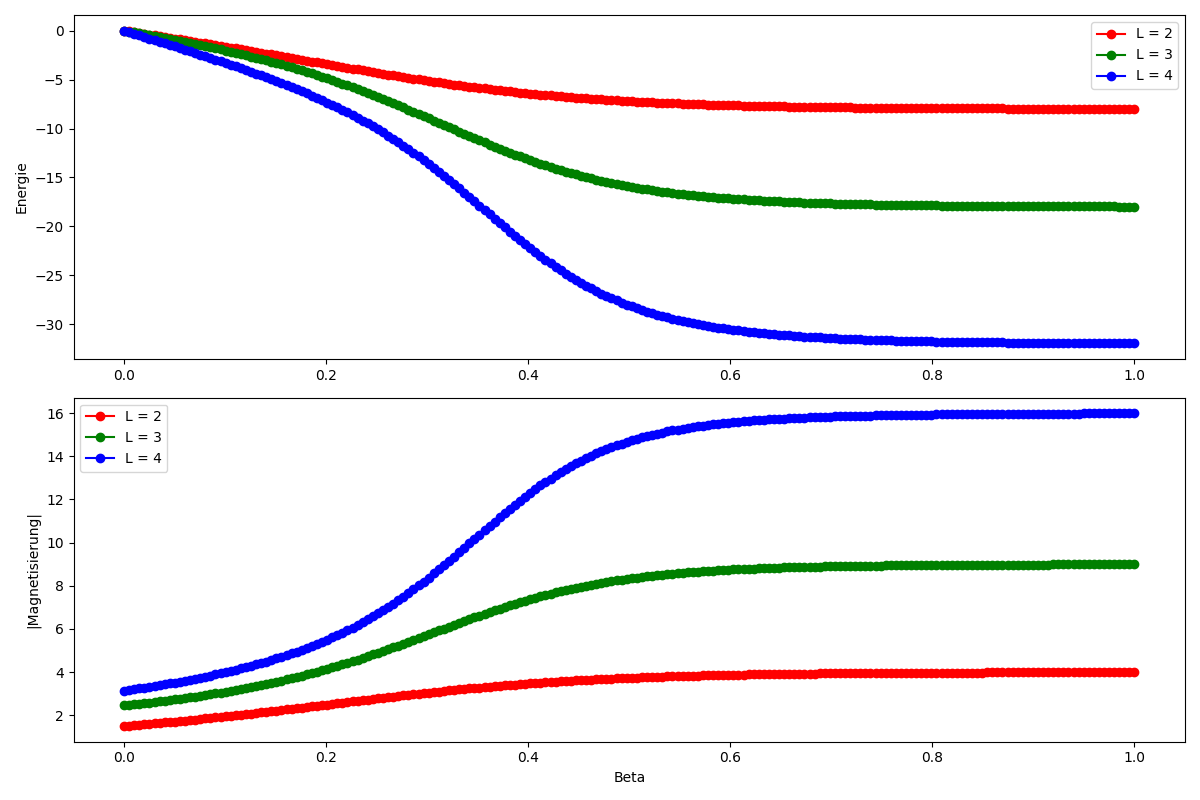
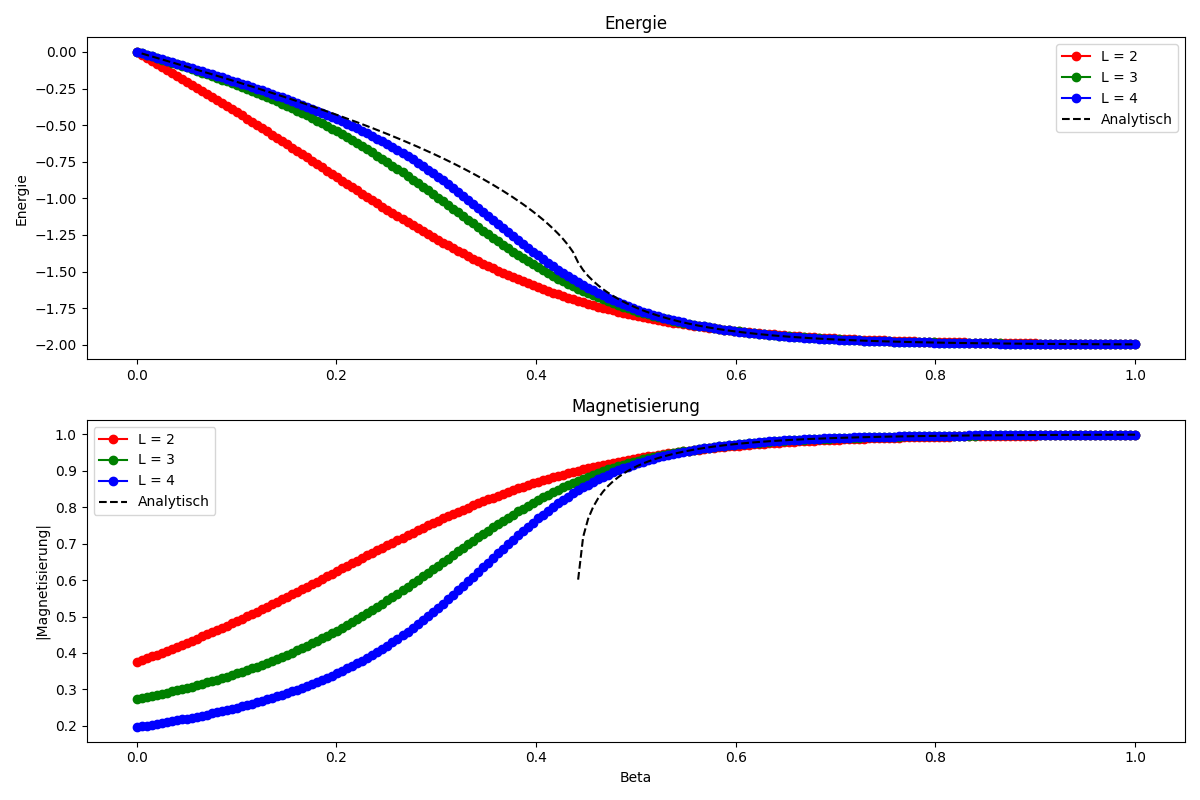
fixed A2 🥳

diff --git a/04_Ising/Aufgabe_2/A2_direct_sum.py b/04_Ising/Aufgabe_2/A2_direct_sum.py
@@ -1,10 +1,10 @@
 import numpy as np
 from itertools import product
+import scipy.integrate as integrate
 import os
 import matplotlib.pyplot as plt
 
 def energy(config, L):
-    """Berechnet die Energie einer gegebenen Konfiguration."""
     E = 0
     for i in range(L):
         for j in range(L):
@@ -35,18 +35,45 @@ def ising_exact(L, beta_values):
             results[beta]['Z'] += weight
     
     for beta in beta_values:
+        # Normalize by Z to get averages
         results[beta]['E'] /= results[beta]['Z']
         results[beta]['M'] /= results[beta]['Z']
         results[beta]['|M|'] /= results[beta]['Z']
+        
+        # Normalize by number of sites to get per-site values
+        results[beta]['E'] /= (L * L)
+        results[beta]['M'] /= (L * L)
+        results[beta]['|M|'] /= (L * L)
     
     return results
+
+def analytical_energy(beta):
+    tanh_beta = np.tanh(2 * beta)
+    cosh_beta = np.cosh(2 * beta)
+    xi = 2 * tanh_beta / cosh_beta
+    
+    def integrand(theta, xi):
+        return 1 / np.sqrt(1 - xi**2 * np.sin(theta)**2)
+    
+    K_xi, _ = integrate.quad(integrand, 0, np.pi/2, args=(xi,))
+    
+    energy_density = - (1 / tanh_beta) * (1 + (2 * tanh_beta**2 - 1) * 2 / np.pi * K_xi)
+    return energy_density
+
+def analytical_magnetization(beta):
+    return (1 - np.sinh(2 * beta)**-4) ** (1 / 8)
 
 # Parameter
 grid_sizes = [2, 3, 4]
 beta_values = np.linspace(0, 1, 200)
 
 # Berechnung
+print("Numerische Werte...")
 data = {L: ising_exact(L, beta_values) for L in grid_sizes}
+
+print("Analytische Werte...")
+data_analytical = {'E': np.array([analytical_energy(beta) for beta in beta_values]),
+                   'M': np.array([analytical_magnetization(beta) for beta in beta_values])}
 
 # Ergebnisse ausgeben
 for L, results in data.items():
@@ -55,7 +82,7 @@ for L, results in data.items():
         print(f"Beta: {beta:.2f}, E: {values['E']:.4f}, M: {values['M']:.4f}, |M|: {values['|M|']:.4f}")
         
 
-# Plotting the results
+# Ergebnisse plotten
 colors = ['r', 'g', 'b']
 plt.figure(figsize=(12, 8))
 
@@ -73,6 +100,14 @@ for idx, (L, results) in enumerate(data.items()):
     plt.plot(betas, abs_magnetizations, marker='o', color=colors[idx], label=f'L = {L}')
     plt.xlabel('Beta')
     plt.ylabel('|Magnetisierung|')
+
+plt.subplot(2, 1, 1)
+plt.plot(beta_values, data_analytical['E'], color='black', linestyle='dashed', label='Analytisch')
+plt.title('Energie')
+
+plt.subplot(2, 1, 2)
+plt.plot(beta_values, data_analytical['M'], color='black', linestyle='dashed', label='Analytisch')
+plt.title('Magnetisierung')
 
 for i in range(2):
     plt.subplot(2, 1, i+1)

diff --git a/04_Ising/Aufgabe_2/A2_analytical.py b/04_Ising/Aufgabe_2/A2_analytical.py
@@ -26,7 +26,7 @@ def analytical_magnetization(beta, J=1):
     return (1 - np.sinh(-4 * beta * J)**-4) ** (1 / 8)
 
 # === Wertebereich für Beta ===
-beta_values = np.linspace(0.1, 1.0, 10)  # Werte für 1/T
+beta_values = np.linspace(0.1, 1.0, 200)  # Werte für 1/T
 
 # === Berechnung der analytischen Werte ===
 energy_analytical = np.array([analytical_energy(beta) for beta in beta_values])
